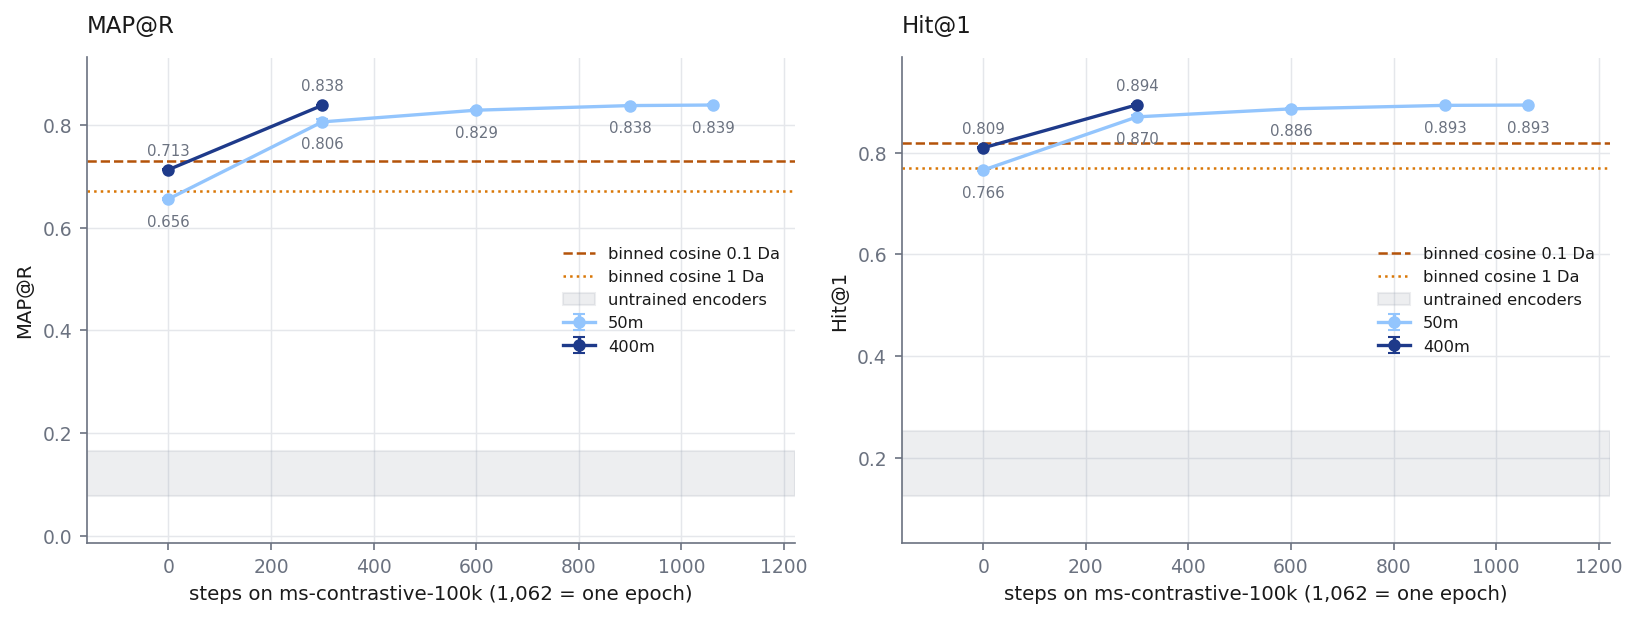
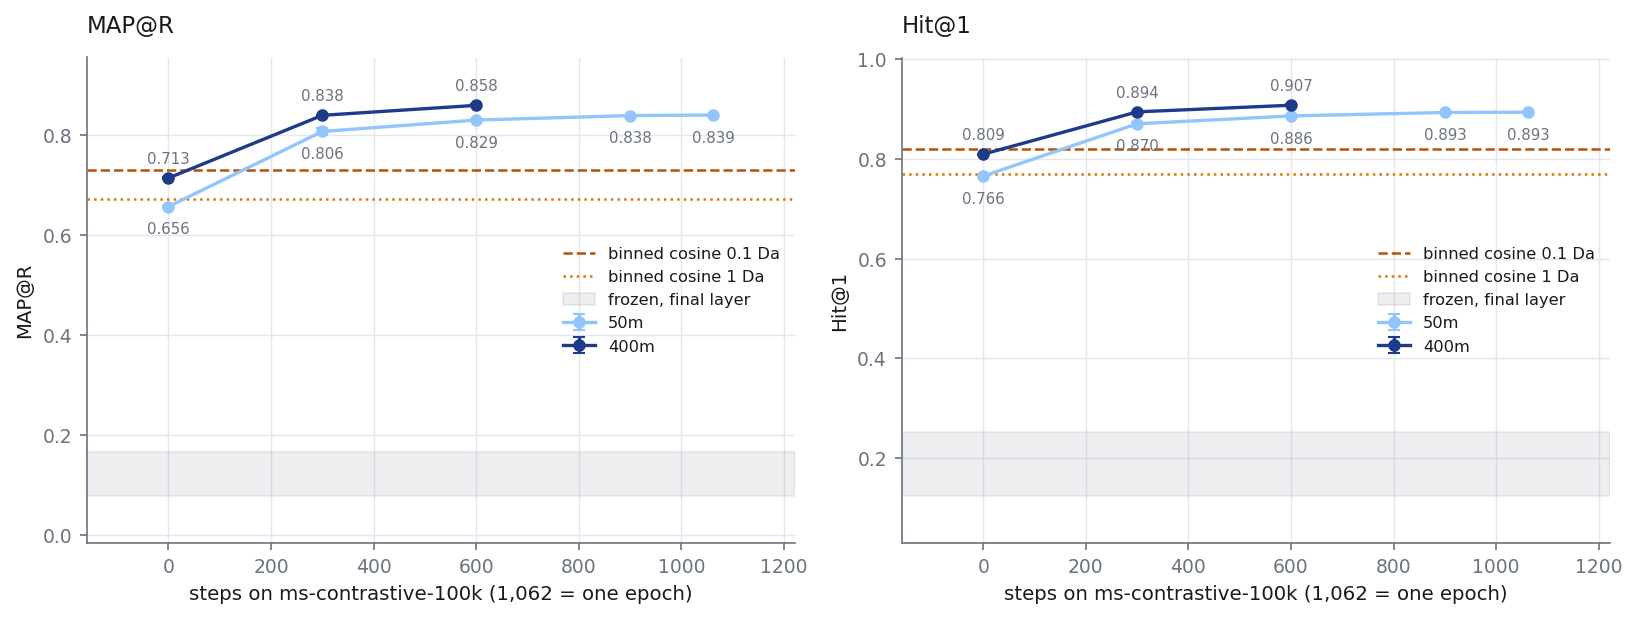
Reranking with the best 50m pair; PLAN: D5, C10, baselines by track, A3 promoted
Claude-Session: https://claude.ai/code/session_01ATgkXx1oRRqvzB3G8wYeta

diff --git a/sweeps/plot_contrastive_100k.py b/sweeps/plot_contrastive_100k.py
@@ -94,7 +94,7 @@ def references(ax, res, key):
             if n.startswith("base_") and key in d["metrics"]]
     if base:
         ax.axhspan(min(base), max(base), color="#9ca3af", alpha=0.18,
-                   label="untrained encoders")
+                   label="frozen, final layer")
 
 
 def finish(ax, xlabel, ylabel, title):
@@ -114,10 +114,30 @@ def fig_scale(res):
         for (s, _), xi, yi in zip(pts, x, y):
             ax.scatter([xi], [yi], s=55, color=SCALE_COLOUR[s], zorder=3, label=s)
         label(ax, x, y)
+        # "before": the frozen pretrained encoder's best block at 220k (zero-shot redo)
+        zs = zeroshot_best(key)
+        zx = [PARAMS[s] for s in ORDER if s in zs]; zy = [zs[s] for s in ORDER if s in zs]
+        if zx:
+            ax.plot(zx, zy, ls="--", lw=1.1, color=MUTED, marker="o", mfc="white",
+                    ms=6, label="frozen, best layer")
+            label(ax, zx, zy, below=True)
         references(ax, res, key)
         ax.set_xscale("log"); ax.set_xticks(x); ax.set_xticklabels([s for s, _ in pts])
         finish(ax, "model size", name, f"{name}, checkpoint 220k")
     fig.tight_layout(); out = FIGS / "c100k_scale.png"; fig.savefig(out); plt.close(fig)
+    return out
+
+
+def zeroshot_best(key, ck="220k"):
+    """Frozen encoder's best-block score per scale (eval_zeroshot_layers output)."""
+    out = {}
+    for f in glob.glob(str(REPO / "results" / "finetune" / "contrastive" / "zeroshot-layers"
+                           / f"zs_*_ck{ck}.json")):
+        d = json.load(open(f))
+        m = re.match(r"zs_0*(\d+m)_ck", d["name"])
+        vals = [v[key] for v in d["layers"].values() if key in v]
+        if m and vals:
+            out[m.group(1)] = max(vals)
     return out
 
 

diff --git a/notes/PLAN.md b/notes/PLAN.md
@@ -31,6 +31,7 @@ Status: ✅ answered · 🟡 partly · ⏳ running/queued · ⬜ not started
 | D2 | How much does pretraining buy, in AUROC and F1? | ✅ | ~+0.05 AUROC at every scale (50m +0.046, 100m +0.051, 200m +0.048, 400m +0.045, 4 epochs). 16 epochs from scratch (50m 0.905) still far below pretrained at 4 |
 | D3 | Do AUROC and F1 improve with pretraining checkpoint? | ✅ | yes, saturating: full curves at 50m (0.910 → 0.936) and 100m (0.919 → 0.943) over 10k → 540k, flat from ~330k; 10k already beats scratch by ~0.025. 200m rises through 330k; 400m flat 181k → 220k. 200m/400m later rungs wait on pretraining |
 | D4 | Do denoise HPs hold across checkpoints? | ✅ | lr2e-4/es0.5 wins at ckpt 1 and 540423 |
+| D5 | Does the denoiser generalise to spectra LONGER than its 512-peak training cap (13% of test, up to 3,086 peaks)? | 🟡 | `msdelta/eval_denoise_length.py` scores the Hub models by peak-count bucket. First run: longer buckets score higher (0.96-0.975 AUROC) BUT its <=512 check reads 0.9227 vs the published 0.9366 (50m), so NOT yet trusted; precision and padding ruled out, weights/data path under investigation |
 
 ### Contrastive
 
@@ -46,6 +47,7 @@ Status: ✅ answered · 🟡 partly · ⏳ running/queued · ⬜ not started
 | C7 | Does training on ms-contrastive-100k beat the replicate corpus, and does scale show there? | ⏳ | **yes, decisively**: 50m continued on it for 300 steps (~¼ epoch) reaches 0.81 exp MAP@R on its test split vs 0.656 before and binned cosine 0.730 (3 seeds; consensus view still 0.65 vs 0.76). Best-first run 8860522 continues 50m and 400m for one epoch, encoder every 300 steps; 400m step-300 read ~07:30 UTC |
 | C8 | Does a per-pair sigmoid loss (SigLIP, Zhai et al. 2023) beat SupCon? | ⬜ | SupCon is a softmax over the batch with every positive in every denominator, so positives compete (target 1/(K-1) each). Sigmoid scores each pair independently (learnable temperature + bias). Ablation at the C1 recipe, 50m, 3 seeds, after C7 so data and loss do not change together |
 | C9 | Does an MLP projection head (master's MSDeltaForRetrieval) help the embedding -- retrieving on the head output, or on the pre-head features (SimCLR)? | ✅ | **No; keep the no-head design.** 24 epochs, 3 seeds, small eval: no head 0.877, head output 0.825, pre-head 0.705 (3 epochs: 0.60 / 0.30 / 0.29). Job 8860587 |
+| C10 | Zero-shot scaling: how does FROZEN-encoder retrieval scale with model size and pretraining? (kept to show how much training improves embeddings) | 🟡 | best-layer (~3/4 depth) exp MAP@R @220k: 50m 0.208, 100m 0.140, 200m 0.151, 400m 0.432 (job 8862567, 10 encoders). **To do**: every ladder checkpoint at every scale, for full curves |
 
 ### Alignment (peptide embedder)
 
@@ -58,7 +60,7 @@ library search. Metric: peptide->spectrum Hit@1 / MAP@R on held-out peptides.
 | A0 | What does the current student reach, and on what? | 🟡 | R1's student: Hit@1 0.73 on 94 held-out replicate-corpus peptides (50m teacher), trained on ~855. Blind to adjacent-residue swaps (57% vs near-miss decoys). Not yet scored on ms-contrastive-100k |
 | A1 | Does training on ms-contrastive-100k (~88k peptides) give a much better student? | ✅ | **yes**: teacher C7-50m step 600; on the TEST split, all 25,137 spectra vs all 9,771 candidates: Hit@1 **0.898** (3 seeds, ±0.001), Hit@5 0.932, MRR 0.914 -- vs 0.73 for R1's student on 94 peptides. Jobs 8861093/8861292/8861309/8861310 |
 | A2 | Does student quality track teacher quality? | ⬜ | **to do**: when C7 best-first (8860522) finishes, rebuild the teacher cache from its FINAL 50m and 400m encoders (sharded, `pbs/precompute_align_sharded.pbs`; ~10 min at 50m, ~25 min at 400m) and retrain the student on each (`sweeps/make_a1.py` TEACHERS; only --pretrained_path changes), 3 seeds, scored with `pbs/eval_align_test.pbs` on the test split |
-| A3 | Does order-aware pooling fix the adjacent-swap blindness? | ⬜ | mean+max pooling is nearly a bag of residues; try a CLS/attention pool, scored on the swap test and Hit@1 |
+| A3 | Does order-aware pooling fix the adjacent-swap blindness? | ⬜ | **now the main reranking lever**: with the A1 student the embedding alone beats mass-matched and reversed decoys 98-99% but near-miss swaps only 70.5%, and near-misses are why it costs -0.037 Hit@1 in the classifier. Try a CLS/attention pool; score on the swap test and Hit@1 |
 
 ### Reranking (downstream of contrastive)
 
@@ -79,12 +81,21 @@ C1 winners can go through it immediately.
 
 ## Baselines to build (to-do)
 
-External reference points; each names the question it serves.
+External reference points, by track. Each is scored on the same split and metric as ours.
 
-- [x] **Binned cosine** (spectral-library dot product), C7/C2 — in `eval_grouped_retrieval`, scored by 8860250
-- [ ] **GLEAMS** (Bittremieux et al., Nat Methods 2022), spectrum→spectrum, C7 — not on PyPI; GitHub install with an old TensorFlow in its OWN venv (never the project env). ~0.5–1 day. Caveat: trained on MassIVE-KB, which may overlap our test spectra
-- [x] ~~**Sage + mokapot**~~ — dropped 2026-09-24 (the incoming reranking dataset sets the R baselines)
-- [ ] if R needs them: MS²Rescore, Prosit/Oktoberfest (would need a search engine first; revisit with the reranking dataset); yHydra (1–3 days, cross-modal, A-track)
+CONTRASTIVE (spectrum embedder; ms-contrastive-100k test, MAP@R / Hit@1)
+- [x] **Binned cosine** (spectral-library dot product) — 0.730 exp MAP@R at 0.1 Da, 0.671 at 1 Da (8860250)
+- [ ] **PCA** — PCA of the binned spectrum vectors to our embedding width, cosine retrieval; says how much a linear unsupervised compression of the same input already gets
+- [ ] **GLEAMS** (Bittremieux et al., Nat Methods 2022) — GitHub install with an old TensorFlow in its OWN venv; needs raw m/z + intensity + precursor m/z + charge exported to MGF. ~0.5–1 day. Caveats: uses precursor info (we do not); trained on MassIVE-KB, which may overlap our test
+
+ALIGNMENT (peptide embedder; peptide->spectrum Hit@1 / MRR on the test split)
+- [ ] **yHydra** (Altenburg et al. 2022) — joint peptide/spectrum embedding, the direct competitor to the A1 student. 1–3 days, maintenance risk
+
+RERANKING (on the incoming reranking dataset)
+- [ ] **FDR vs the existing ranking** — PSMs/peptides at 1% FDR (target-decoy) of our reranking against the dataset's own search-engine ranking
+- [ ] **MS²Rescore** (MS²PIP + DeepLC features, mokapot) — ~1 day on top of the dataset's search results
+- [ ] **Prosit / Oktoberfest** — predicted-spectrum rescoring; 1–2 days
+- [x] ~~Sage + mokapot~~ — dropped 2026-09-24 (the dataset supplies the search results)
 
 ## Order of work
 
@@ -135,10 +146,10 @@ decoys and will be re-set against that dataset.
 Real questions, deliberately not on the path to the two conclusions. Each keeps its
 write-up in TODO.md under the same number.
 
-- **FT1** — does the denoiser generalise beyond 1024 peaks?
 - **FT8** — is a warm-up freeze on the encoder worth anything?
 - **FT12** — the sign of the pooled-vs-within AUROC gap, measured rather than argued.
 - **ms-contrastive-100k only (lowest priority)** — C7's encoders are two-stage (replicate corpus, then ms-contrastive-100k). Training from the pretrained checkpoint on ms-contrastive-100k alone would show whether stage one adds anything. Not needed for the conclusions; two-stage is the recipe (decided 2026-09-24).
+- **Linear vs non-linear probe on frozen features (not pursued)** — the zero-shot per-layer redo (OBSERVATIONS 2026-09-24, `results/finetune/contrastive/zeroshot-layers/`) shows frozen encoders retrieve well at ~3/4 depth, which partly overturns the old "non-linear, unreachable by any readout" claim. That data is kept ONLY as the starting point for how much training improves the embeddings (figure c100k_scale); the theory itself is not being chased.
 - **Layer mixing (retry candidate)** — `pooling=layer_mix` was dropped (OBSERVATIONS, "Blending encoder depths is worse", job 8842351) on the SEPARATION RATIO at the old recipe (t 0.07, 3 epochs, P2xK2). C0 later showed that ratio does not predict retrieval, so "last layer is best" was never tested on MAP@R. Retry: 50m at the frozen C1 recipe, layer_mix vs last layer, 3 seeds each, scored on the small eval and the ms-contrastive-100k test (~2.4 h/arm, one node). No write-up in TODO.md; this entry is it.
 
 ## Rules

diff --git a/notes/OBSERVATIONS.md b/notes/OBSERVATIONS.md
@@ -1243,3 +1243,22 @@ OVERTURNS the "frozen embedding is indistinguishable from random at every layer"
 lot (400m: 0.43 frozen best -> 0.70 replicate-FT -> 0.86 C7). NOT YET MEASURED: linear vs
 MLP probe on the frozen ~3/4-depth features (the actual non-linearity test); a random-init
 zero-shot reference on this test. Raises the value of the parked layer-mix retry.
+
+## Reranking with the best 50m pair: the embedding alone beats real decoys 98-99%, near-miss swaps 70% (2026-09-24)
+
+Spectrum side C7-50m (step 600, seed 1), peptide side A1 student (seed 0); 25,775
+ms-contrastive-100k VALIDATION spectra (cache align-targets-a1-050m-c7s600); candidates =
+truth + 2 near-miss (adjacent swap) + 2 mass-matched real peptides + reverse. Jobs 8862663
+(embedding only), 8862729 (classifier, all decoys), 8862705 (classifier, no near-miss).
+
+    embedding only (argmax cosine):  hit@1 0.701 all decoys | 0.975 without near-miss
+      truth beats: mass_matched 98.7%, reverse 98.2%, near_miss 70.5%
+    classifier, all decoys:          with emb 0.752 +- 0.008, without 0.789 +- 0.008
+                                     embedding -0.037 hit@1 (R1: -0.11), +0.009 AUROC
+    classifier, no near-miss:        with 0.996, without 0.995 (+0.001, n.s.)
+
+The only thing the embedding cannot separate is adjacent-residue swaps: mean+max pooling
+is near order-blind (A3). Without near-misses the hand-built features already solve this
+synthetic benchmark, so it cannot show what the embedding adds -- that needs the incoming
+reranking dataset's real candidates. Caveats FT30 (no ppm cutoff on mass-matched decoys)
+and FT32 (distorted intensity features) apply to both classifier arms equally.
